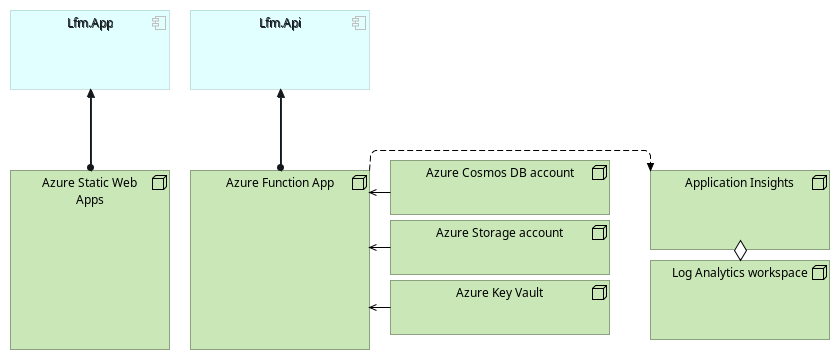
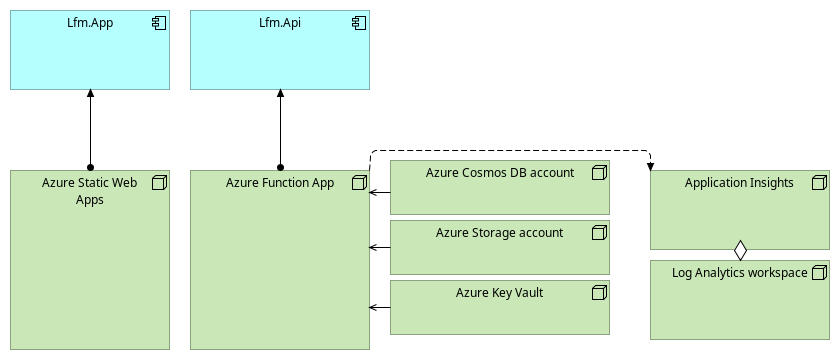
Refresh ArchiMate model for architecture-design 0.8.0
Align lfm.oef.xml with the 0.8.0 skill update: rename the two Technology
views to the canonical §9.4 viewpoint string "Technology Usage", refit the
§6.1a Dublin Core <metadata> block (schema URI, dc:title, dc:creator =
architecture-design 0.8.0, dc:date), and note in the header banner that
no §6.4a banding marker is asserted because the layout pre-dates the
Sugiyama-v1 engine. Update the README viewpoint column to match.

Changed region(s): [[0.0, 0.0306, 0.4643, 0.275], [0.3095, 0.4583, 0.3405, 0.4889], [0.0929, 0.4583, 0.1238, 0.4889]]

diff --git a/docs/architecture/README.md b/docs/architecture/README.md
@@ -9,8 +9,8 @@ The model was lifted from the repository's .NET solution, Bicep IaC, and GitHub 
 | # | View | Viewpoint | Render |
 |---|---|---|---|
 | 1 | Application Cooperation | `Application Cooperation` | [`id-view-app-cooperation.png`](renders/id-view-app-cooperation.png) |
-| 2 | Technology Realisation (Hosting + Data Plane) | `Technology` | [`id-view-technology.png`](renders/id-view-technology.png) |
-| 3 | Technology Security (MI + RBAC) | `Technology` | [`id-view-technology-security.png`](renders/id-view-technology-security.png) |
+| 2 | Technology Realisation (Hosting + Data Plane) | `Technology Usage` | [`id-view-technology.png`](renders/id-view-technology.png) |
+| 3 | Technology Security (MI + RBAC) | `Technology Usage` | [`id-view-technology-security.png`](renders/id-view-technology-security.png) |
 | 4 | Deployment Topology (single-environment) | `Migration` | [`id-view-migration.png`](renders/id-view-migration.png) |
 | 5 | Capability Map (FORWARD-ONLY scaffold) | `Capability Map` | [`id-view-capability-map.png`](renders/id-view-capability-map.png) |
 